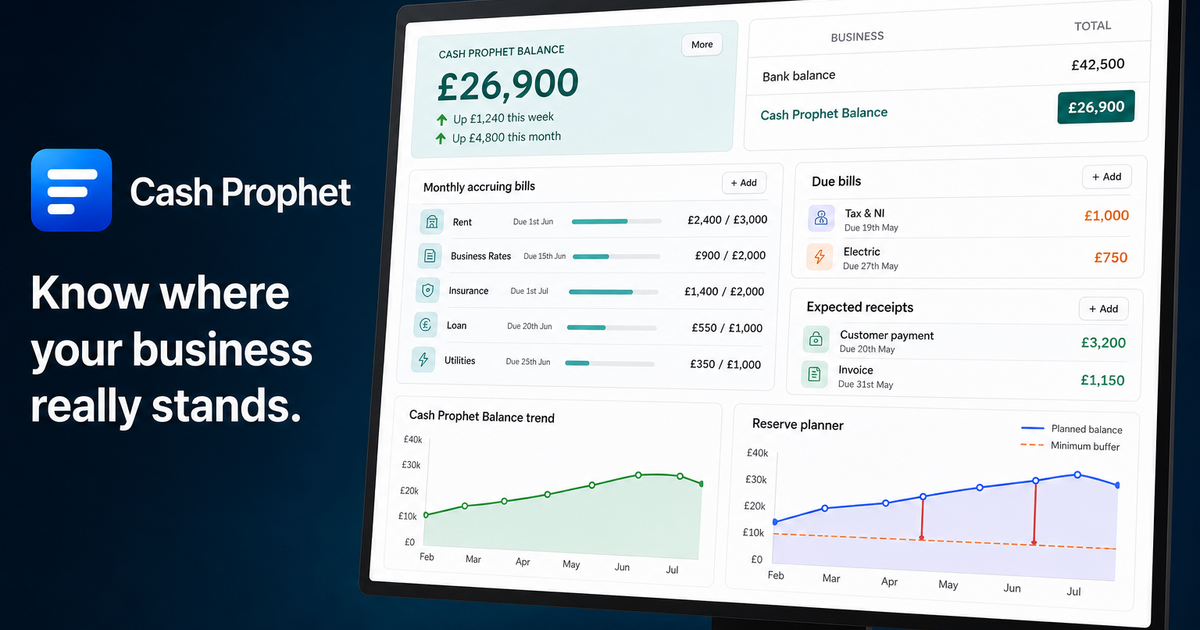
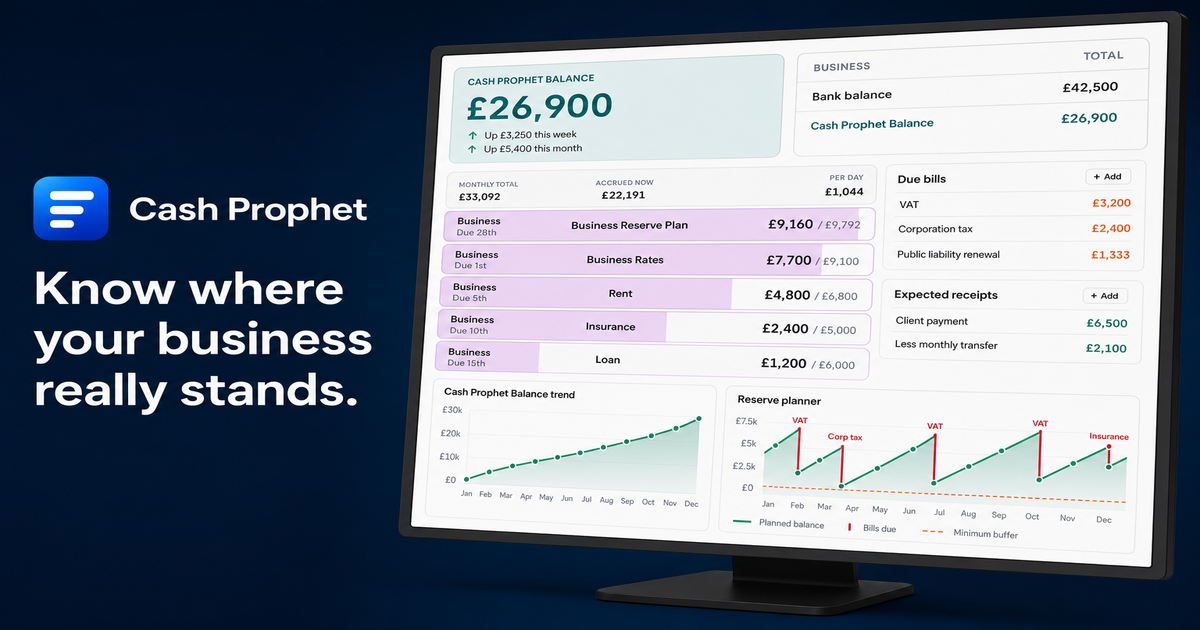
Refresh share image: accruing row washes, real reserve sawtooth, no example brand names.

diff --git a/src/content/marketingSeo.ts b/src/content/marketingSeo.ts
@@ -2,7 +2,7 @@
 
 export const SITE_OG_IMAGE = '/og-image.webp' as const
 export const SITE_OG_IMAGE_ALT =
-  'Cash Prophet on a monitor — single-business dashboard with Cash Prophet Balance, accruing bills, trends and reserve planner.' as const
+  'Cash Prophet on a monitor — Cash Prophet Balance, monthly accruing bills with progress fills, due bills, receipts, balance trend and reserve planner sawtooth.' as const
 export const SITE_OG_IMAGE_WIDTH = 1200
 export const SITE_OG_IMAGE_HEIGHT = 630
 
